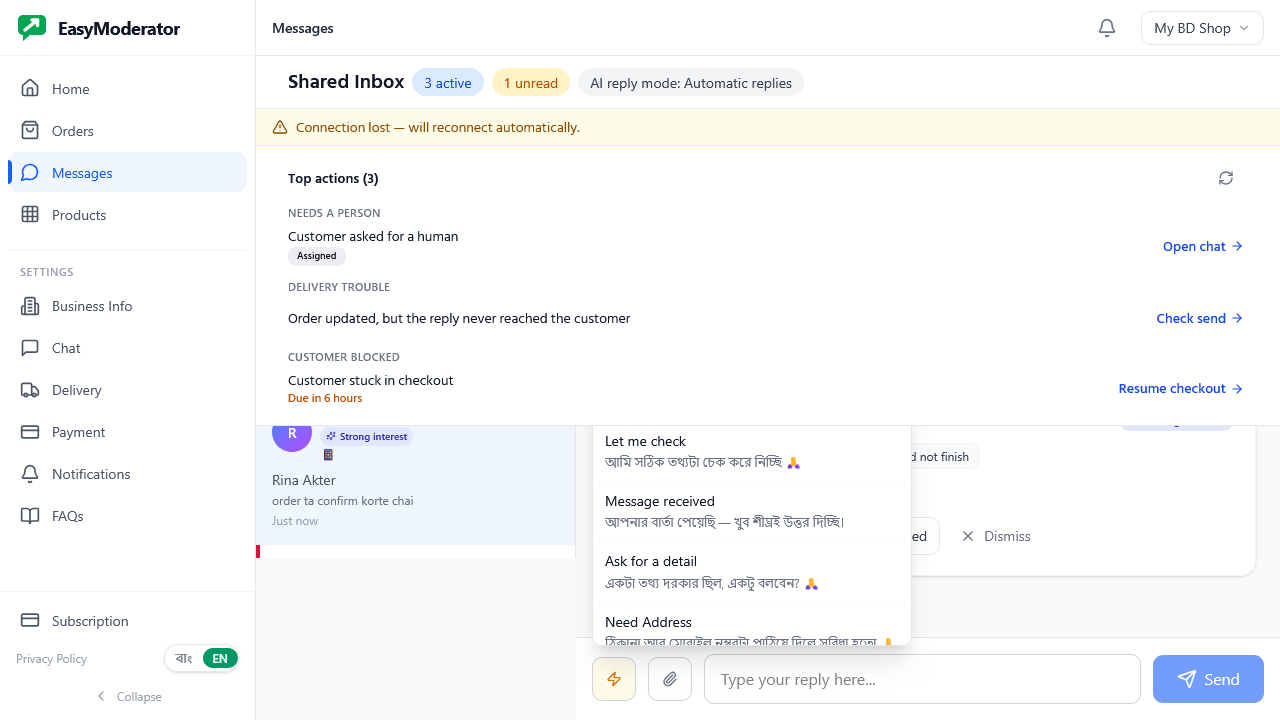
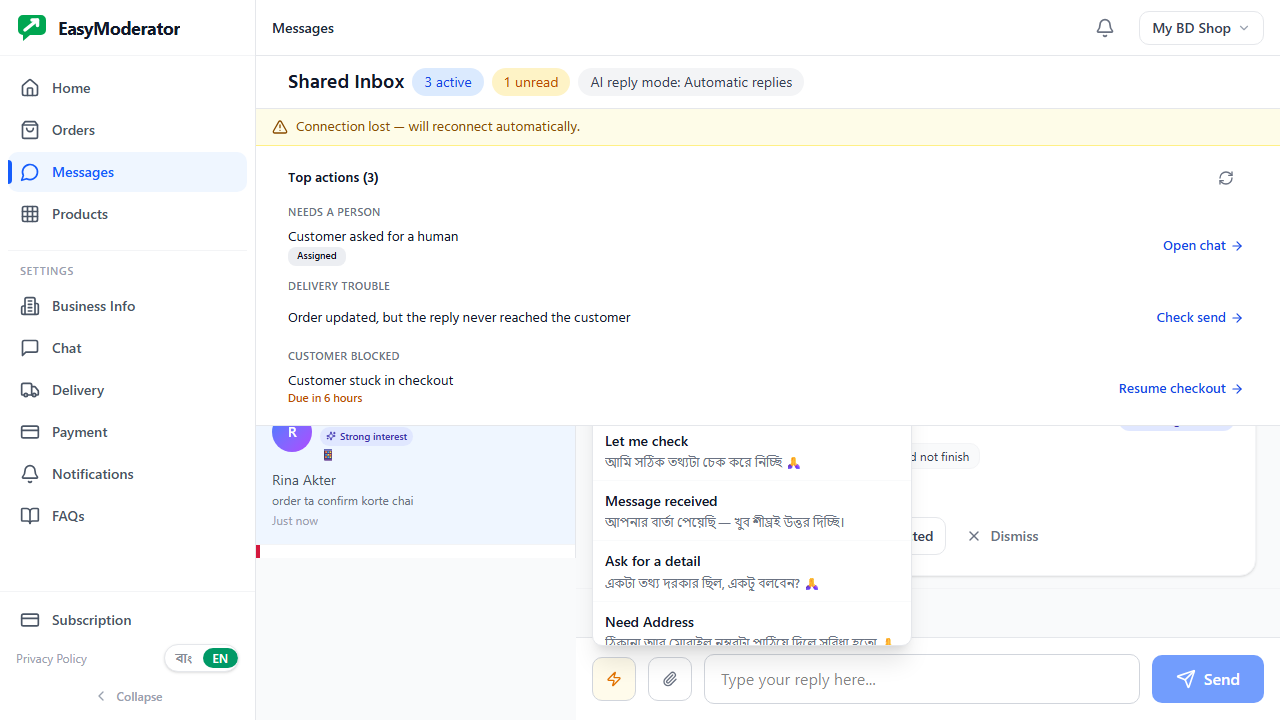
fix(orders)+test(api): close independent-review findings 1-3 (MW-V1 increment 1)
Reviewer verdict APPROVED_WITH_FINDINGS (0 blocker, 0 major, 4 minor) against
9f562aaf..HEAD; three code findings fixed, fourth was docs hygiene (this +
handoff commit):
1. encodeURIComponent on the inbox deep link (matches ActionQueuePanel +
   OpportunityCard producers of the same contract)
2. domain-layer tests for getConversations AbortSignal: axios config carries
   { params, signal } when a signal is passed and { params } exactly (no
   signal key) when not — FE-08 compat now directly asserted, not only via
   apiClient-boundary mocks
3. linked-but-empty conversation shows 'no recent messages', never the
   contradictory 'No chat snippet found.' next to the open button (new
   component test)
Re-gates after fixes: tsc 0, vitest 647/647 (76 files, +3), playwright
pilot-plus 10/10 (workers=1).
PRODUCTION_RELEASE_AUTHORIZED=NO; pushed=false; merged=false

diff --git a/EasyMod-frontend/src/app/components/Orders.tsx b/EasyMod-frontend/src/app/components/Orders.tsx
@@ -1129,23 +1129,27 @@ export default function Orders() {
 
             <div className="bg-gray-50 rounded-lg p-4 mb-6">
               <h3 className="font-semibold text-gray-900 mb-3">{t('orders.detailModal.customerChat')}</h3>
-              {conversationSnippets.length === 0 ? (
-                <p className="text-sm text-gray-500">{t('orders.detailModal.noChatSnippet')}</p>
+              {linkedConversationId ? (
+                conversationSnippets.length === 0 ? (
+                  <p className="text-sm text-gray-500">{t('orders.detailModal.linkedChatEmpty')}</p>
+                ) : (
+                  <div className="space-y-2">
+                    {conversationSnippets.map((line, idx) => (
+                      <p key={`${selectedOrder.id}-msg-${idx}`} className="rounded-lg bg-white p-3 text-sm text-gray-700 border border-gray-200">
+                        {line}
+                      </p>
+                    ))}
+                  </div>
+                )
               ) : (
-                <div className="space-y-2">
-                  {conversationSnippets.map((line, idx) => (
-                    <p key={`${selectedOrder.id}-msg-${idx}`} className="rounded-lg bg-white p-3 text-sm text-gray-700 border border-gray-200">
-                      {line}
-                    </p>
-                  ))}
-                </div>
+                <p className="text-sm text-gray-500">{t('orders.detailModal.noChatSnippet')}</p>
               )}
               {/* FE-08: navigation only ever for the conversation VERIFIED to
                   belong to this order's customer, via the canonical inbox deep link. */}
               {linkedConversationId && (
                 <button
                   type="button"
-                  onClick={() => navigate(`/inbox?conversation=${linkedConversationId}`)}
+                  onClick={() => navigate(`/inbox?conversation=${encodeURIComponent(linkedConversationId)}`)}
                   className="mt-3 text-sm font-semibold text-blue-700 hover:underline font-bn"
                 >
                   {t('orders.detailModal.openConversation')}

diff --git a/EasyMod-frontend/src/test/Orders.test.tsx b/EasyMod-frontend/src/test/Orders.test.tsx
@@ -145,6 +145,26 @@ describe('FE-08 order → conversation association', () => {
     expect(apiClient.getMessages).not.toHaveBeenCalled()
   })
 
+  it('distinguishes a linked-but-empty conversation from having no link at all', async () => {
+    const { apiClient } = await import('@/api')
+    vi.mocked(apiClient.getOrders).mockResolvedValue([normalizedOrder({ customerId: 'cust-1' })])
+    ;(apiClient.getConversations as any).mockResolvedValue({
+      data: [{ id: 'conv-9', customer_id: 'cust-1' }],
+      total: 1, page: 1, pageSize: 1,
+    })
+    ;(apiClient.getMessages as any).mockResolvedValue({ messages: [], pagination: { page: 1, totalPages: 1 } })
+
+    render(<MemoryRouter><Orders /></MemoryRouter>)
+    await openDetail()
+
+    await waitFor(() => {
+      expect(screen.getByText('The linked conversation has no recent messages.')).toBeInTheDocument()
+    })
+    // honest, non-contradictory: NOT "no chat snippet found", but the verified link remains
+    expect(screen.queryByText('No chat snippet found.')).not.toBeInTheDocument()
+    expect(screen.getByRole('button', { name: /open conversation in inbox/i })).toBeInTheDocument()
+  })
+
   it('discards a slower request for a previously opened order (stale response guard)', async () => {
     const { apiClient } = await import('@/api')
     const slow = normalizedOrder({ id: 'slow-1', orderNumber: 'ORD-SLOW', customerId: 'cust-slow' })

diff --git a/EasyMod-frontend/src/api/domains/__tests__/conversation.test.ts b/EasyMod-frontend/src/api/domains/__tests__/conversation.test.ts
@@ -69,6 +69,32 @@ describe('Conversation Domain API', () => {
 
       expect(httpClient.get).toHaveBeenCalledWith('/api/conversation', { params: { status: 'active', page: 2 } });
     });
+
+    // FE-08: the optional second argument must thread the AbortSignal to the
+    // HTTP layer for stale-request cancellation, and must OMIT the key entirely
+    // when no signal is supplied so single-arg callers keep their exact config.
+    it('passes an AbortSignal to the HTTP client when provided', async () => {
+      (httpClient.get as any).mockResolvedValue({ data: { data: {} } });
+      const controller = new AbortController();
+
+      await conversation.getConversations({ customer_id: 'cust-1' }, controller.signal);
+
+      expect(httpClient.get).toHaveBeenCalledWith(
+        '/api/conversation',
+        { params: { customer_id: 'cust-1' }, signal: controller.signal }
+      );
+    });
+
+    it('omits the signal key when no AbortSignal is supplied', async () => {
+      (httpClient.get as any).mockResolvedValue({ data: { data: {} } });
+
+      await conversation.getConversations({ customer_id: 'cust-1' });
+
+      expect(httpClient.get).toHaveBeenCalledWith(
+        '/api/conversation',
+        { params: { customer_id: 'cust-1' } }
+      );
+    });
   });
 
   describe('AiReplyMode normalization', () => {

diff --git a/docs/merchant-workspace-v1/increment-1-handoff.md b/docs/merchant-workspace-v1/increment-1-handoff.md
@@ -1,0 +1,89 @@
+# Merchant Workspace V1 — Increment 1 (Founder Handoff)
+
+**Date:** 2026-10-25
+**Branch:** `feat/merchant-workspace-v1-increment1` (worktree `D:\easymod\_wt-merchant-workspace-v1-increment1`)
+**Initial SHA:** `9f562aaf1559171c97902838a9bc5408283e2881` (Pilot+ V1 verified candidate — untouched, its worktree remains intact)
+**Final SHA:** see `git log --oneline 9f562aaf..HEAD` tip (docs commit below)
+**Scope authorization:** Gate-0 reconciliation items FE-01 (P0), FE-08 (P1), FE-03 (P1) from `D:\easymod\EasyModerator_Frontend_Backend_CRM_Gap_Audit_2026-10-25.md`.
+
+## Commits
+
+| SHA | Scope | Purpose |
+|---|---|---|
+| `aefa429f` | FE-03 | Remove three dead conversation API helpers targeting unmounted routes |
+| `3425a6d6` | FE-01 (P0) | Claim-free quick-reply fallbacks in the inbox composer |
+| `cbc3407a` | FE-08 (P1) | Verified `customer_id` order→conversation link + canonical deep link |
+| `01a622d0` | E2E | Playwright journeys ×3 + screenshots (chromium AND firefox 10/10) |
+
+Changed files (all in `EasyMod-frontend/`, plus `docs/` evidence; **ZERO backend files** —
+`git diff --name-only 9f562aaf..HEAD -- EasyMod-backend` is empty):
+`src/app/components/UnifiedInbox.tsx`, `src/app/components/Orders.tsx`,
+`src/api/domains/{conversation,order}.ts`, `src/api/types/order.ts`,
+`src/i18n/locales/{en,bn}.json`, tests (`QuickReplySafety.test.ts` new;
+`UnifiedInbox/Orders/order.test` extended; `pilot-plus.spec.ts` +3 journeys).
+
+## Before → after behavior
+
+### FE-01 — composer quick-reply fallbacks (P0 customer-truth)
+- **Before:** with no merchant templates — *including when the templates API simply failed to load* — the composer offered ten hard-coded replies asserting business facts ("আপনার অর্ডার confirm হয়েছে ✅", "Stock আছে", "Advance ৳[Amount] bKash করুন", "পার্সেল courier এ দেওয়া হয়েছে", "৳60/৳120 charges", "3 দিনের মধ্যে return", "COD available", "আজকেই dispatch"). Any of these could reach a customer containing an unverified truth even after merchant review, because the text implied verified status.
+- **After:** fallbacks contain only (a) promises to check and follow up and (b) requests for information — zero business facts. Merchant-authored templates remain the only source of shop-specific wording (shown instead of fallbacks whenever at least one active template exists). Insert is still text-into-editable-composer only: no auto-send, no AI-grounding-approval inheritance (asserted by tests).
+- **Files:** `UnifiedInbox.tsx:201-214` (new builder + invariant comment), locales `inbox.templates` block (8 orphaned claim-labels removed, 3 neutral added).
+
+### FE-08 — Order detail "Customer Chat" (P1 cross-customer data exposure)
+- **Before:** `Orders.tsx` queried `getConversations({ search: customerName, limit: 1 })`. The list endpoint **ignores unknown query keys**, so this actually returned the shop's most recently updated conversation — the detail modal could display a DIFFERENT CUSTOMER's messages under this order's name (a truth AND privacy bug, worse than the audit's duplicate-name framing).
+- **After:** only the order's verified, shop-scoped `customerId` (now normalized through from `customer_id` / `customer.id`) queries the **existing** `GET /api/conversation?customer_id=` filter (enforced inside `whereClause { shop_id: req.user.shopId, customer_id }` server-side); the client re-checks the returned row's `customer_id` before touching messages; unlinked orders (manual/`customer_id` NULL) render the honest "No chat snippet found." and issue NO lookup; a verified association gains the canonical `/inbox?conversation=<id>` deep link (identical contract to the P+03 action queue). In-flight lookups abort when the merchant switches orders or closes the modal.
+- **No new authority invented:** zero backend change; no cross-channel identity merge — the link is the shop's own order.customer_id ↔ conversation.customer_id relation.
+- **Files:** `src/api/types/order.ts` (+customerId), `src/api/domains/order.ts` (mapper), `src/api/domains/conversation.ts` (optional AbortSignal, backwards-compatible), `Orders.tsx` (effect + unavailable state + link button), locales (+1 key).
+
+### FE-03 — dead API helpers
+- **Before:** `assignConversation`/`closeConversation`/`reopenConversation` existed in `src/api/domains/conversation.ts:91-118`, aimed at routes the backend does not mount (`/assign`, `/close`, `/reopen`), reachable only by a future mistaken import — while the REAL, integration-tested flow is the canonical PATCH (`updateConversation`) with 409 conflict ownership.
+- **After:** removed; zero references repo-wide (barrel `src/api/index.ts` never re-exported them), tsc clean, conversation domain suite unaffected (29/29).
+
+## Verification evidence
+
+| Gate | Result |
+|---|---|
+| `npx tsc --noEmit` | 0 errors |
+| Vitest full frontend suite | **644/644** (628 baseline + 16 new) |
+| New unit specs | QuickReplySafety 5 (claim-free invariants); UnifiedInbox wiring +5 (empty/API-failure/merchant-present/inactive/insert-not-send); Orders component +5 (verified link, unlinked unavailable, wrong-customer refusal, empty list, stale-request discard); order mapper +1 (flat/nested/null) |
+| Playwright `pilot-plus` | **10/10 chromium AND 10/10 firefox** (7 pre-existing Pilot+ journeys as regression gate + 3 new increment journeys with request-level assertions: no `search=` param ever sent, `customer_id=` used, URL lands on `/inbox?conversation=conv-1`, no lookup for unlinked orders) |
+| Vite build | success |
+| Backend suites | NOT re-run — diff proves zero backend changes; the reused `customer_id` list filter's tenant scoping was source-verified (`conversation.service.js` whereClause built from JWT shopId) |
+| Storefront-contract check | all changes channel-neutral (ids/refs only, no Meta-specific semantics added) |
+| Draft/Manual/Auto + choices + handoff recheck | P+01/P+03/P+05 journeys pass unchanged in the same run; interaction kernel untouched; takeover-conflict journey (409 honesty) still green |
+| Screenshots | `screenshots/fe01-quick-replies-claim-free.png`, `fe08-order-detail-linked.png`, `fe08-order-detail-unlinked.png` |
+
+## Independent review
+Fresh-context adversarial reviewer (`ses_e8ccd8420…`, full diff read + commands re-run):
+**APPROVED_WITH_FINDINGS — no blockers, no majors.** It independently confirmed the two
+dangerous premises of this increment: (1) the backend list endpoint DOES ignore `search`
+(making the old name lookup actually return the shop's most recently active conversation —
+a cross-customer display bug, worse than the audit framed it), and (2) `handleTemplateInsert`
+is provably insert-only — the AI-approval path (`approveAiDraft`) is entirely separate and
+untouched. Tenant scoping verified at source: JWT-only shopId through `authenticate` +
+`verifyShopAccess`, `whereClause { shop_id, customer_id }`. Reviewer's own run: tsc 0, its
+5-suite focused subset 117/117.
+Four minor findings; ALL ADDRESSED the same session (see fix commit):
+1. deep link now uses `encodeURIComponent` matching the two existing producers;
+2. domain-level unit tests added for the new `signal` plumbing (present AND omitted-when-absent axios config);
+3. linked-but-empty conversation now reads "The linked conversation has no recent messages." instead of contradicting itself with "No chat snippet found." while also offering the open button (component test added);
+4. docs/memory committed alongside the increment (this file).
+Post-fix re-gates: tsc 0, vitest **647/647**, Playwright **10/10**.
+
+## Security / tenant-scope notes (FlowGuard pass)
+- FE-01 surface strictly SHRANK: static neutral strings into a textarea (React-escaped, plain-text send path); removed attack-of-misleading-content, added none.
+- FE-08 access path narrowed from "arbitrary conversation by shop recency" to "conversation filtered by server-side shop scope + client identity recheck". `customerId` values originate from the shop's own order DTO (already JWT-scoped); no new endpoint, no new parameter accepted by the backend, no name/phone-based matching anywhere.
+- FE-03 deletion removes two route-shaped failure modes; auth model untouched.
+- i18n: removed keys have zero remaining references; no key used from untrusted data.
+
+## Known limitations / not done (honest ledger)
+- Live full-stack founder preview could not be restarted this session: the machine's Docker Desktop Linux engine failed to come up after an OS reboot (`dockerDesktopLinuxEngine` pipe never created; WSL distros stopped). The increment is FE-only and its Playwright gate uses the repo-conventional route-mocked stack; the real-stack lab (identical backend bytes, seeded DB volume survives) will serve the new UI as soon as Docker Desktop is healthy: `powershell -File scripts\pilotplus-lab.ps1`.
+- WebKit remains a pre-existing harness limitation (unchanged from Pilot+ gates).
+- Playwright cold-start flake observed on the brand-new worktree's first parallel batch (vite transform timeout); sequential runs 10/10 twice. CI's `retries: 2` already covers this class.
+- Template variables (`{{...}}` capability gap FE-10) and remaining CRM rows: NOT in this increment's authorized scope.
+
+## Safe integration
+1. Review: open `http://localhost:5173` after `powershell -File scripts\pilotplus-lab.ps1` (creds in `docs/pilot-plus-v1/10-founder-handoff.md`), or just read the three screenshots + this file.
+2. Merge order: this branch is a linear child of Pilot+ V1 (`9f562aaf`). If Pilot+ merges to main first, this needs no rebase. If another workstream (orders-v2/v6/mobile) merges first, expect at most trivial conflicts in `Orders.tsx` / `conversation.ts` (file-ownership notes: doc 02 §0 of Pilot+).
+3. Kill switch: none needed — these are contract fixes, no new feature flags; merchant-visible behavior only becomes safer.
+4. Do NOT deploy from this worktree without the standing production-authorization gate.

diff --git a/.easymod/memory/execution-history.md b/.easymod/memory/execution-history.md
@@ -1,5 +1,47 @@
 # Execution History
-**Last Updated:** 2026-10-25 (Pilot+ V1 merchant momentum)
+**Last Updated:** 2026-10-25 (Merchant Workspace V1 — increment 1)
+
+## 2026-10-25 — Merchant Workspace V1 increment 1: safe composer macros, verified order→chat link, dead-code removal
+
+**Task:** Execute the three Gate-0-flagged contract corrections (FE-01, FE-08,
+FE-03) as a child branch of the frozen Pilot+ V1 candidate `9f562aaf`, without
+restarting or touching the Pilot+ workstream, other agents' worktrees, or
+production.
+
+**Outcome:** Complete in `feat/merchant-workspace-v1-increment1` (worktree
+`D:\easymod\_wt-merchant-workspace-v1-increment1`; evidence
+`docs/merchant-workspace-v1/increment-1-handoff.md`). FE-01 replaced the ten
+hard-coded quick-reply fallbacks (which asserted order/stock/payment/courier/
+charge/return/COD/dispatch facts and were shown even when the templates API
+FAILED) with five claim-free ones — only information-requests or
+promise-to-follow-up; template click still only fills the editable composer
+(no auto-send, no AI-grounding inheritance, both asserted). FE-08 replaced the
+order-detail name search (`getConversations({search:name,limit:1})`, which the
+list endpoint silently ignores — it actually returned the shop's most recently
+ACTIVE conversation, i.e. possibly a different customer's chat) with the
+verified shop-scoped `customer_id` association already enforced server-side,
+a client-side identity recheck, an honest unavailable state for manual/unlinked
+orders, AbortController stale-response protection, and the canonical
+`/inbox?conversation=<id>` deep link. FE-03 removed the dead
+assign/close/reopen helpers targeting unmounted routes (zero references; the
+canonical tested PATCH contract unchanged).
+
+**Tests:** tsc 0; frontend vitest 644/644 (+16 new: claim-free invariants,
+empty/API-failure/inactive-template wiring, unlinked/wrong-customer/empty/
+stale-discard cases); Playwright pilot-plus 10/10 on BOTH chromium and firefox
+(7 Pilot+ regression journeys + 3 new increment journeys with request-level
+assertions); vite build green. No backend files changed (`git diff
+--name-only 9f562aaf..HEAD -- EasyMod-backend` empty); backend suites inherited
+the Pilot+ green state by construction.
+
+**Schema:** none. `Order.customerId` is a frontend normalisation field over the
+existing `customer_id` column.
+
+**Meta Risk:** reduced — the merchant UI no longer offers hard-coded
+customer-truth claims, and no order can display another customer's
+conversation. Live full-stack preview blocked by host Docker Desktop engine
+(machine reboot; WSL stopped) — not a code issue; lab restart documented in
+the handoff. PRODUCTION_RELEASE_AUTHORIZED=NO; nothing pushed/merged/deployed.
 
 ## 2026-10-25 — Pilot+ V1: lead intelligence, structured choices, action queue, context-preserving checkout, knowledge-gap actions
 
